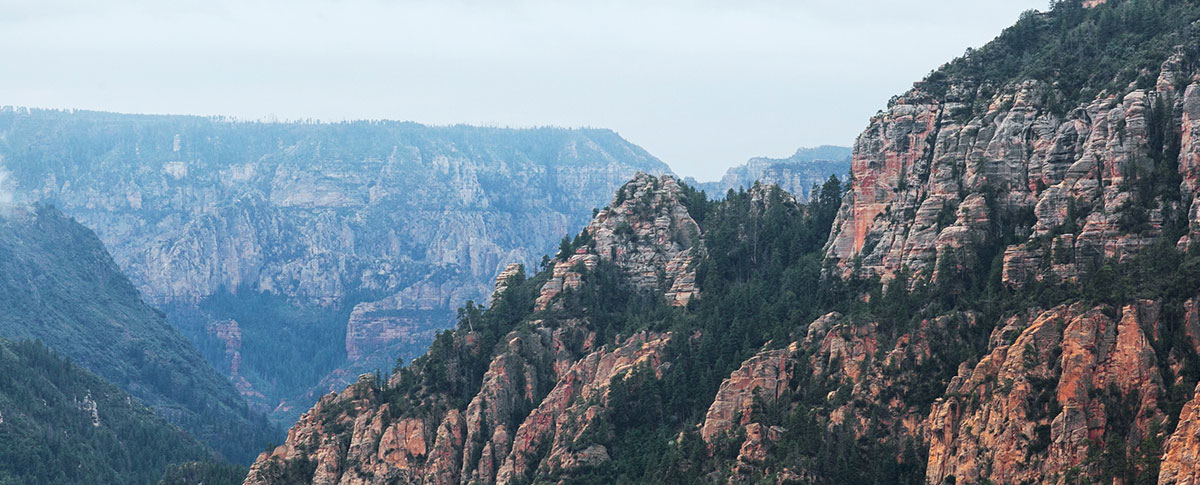
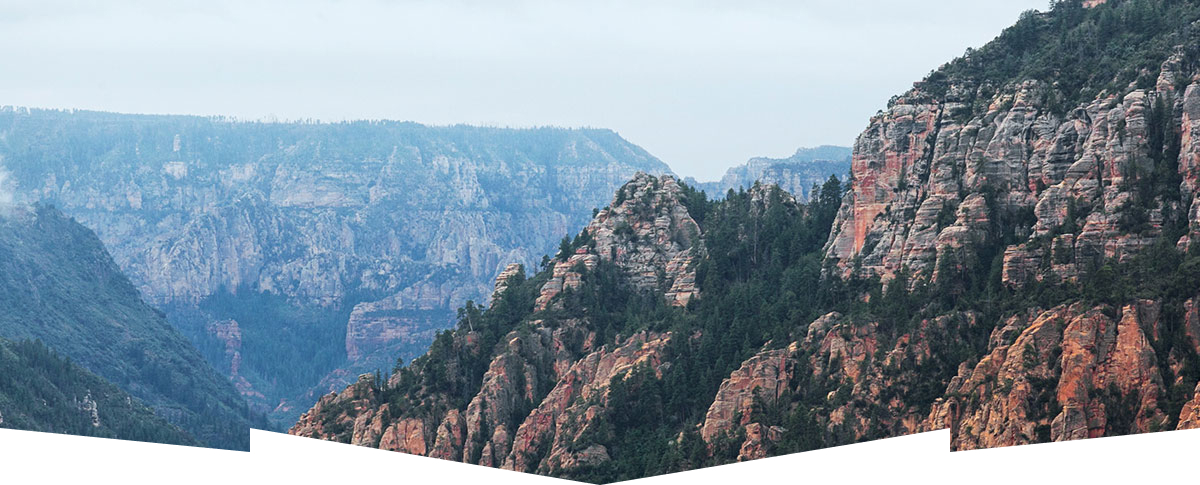
практика 3
В процессе

Changed region(s): [[0.0, 0.866, 1.0, 1.0]]

diff --git a/index.html b/index.html
@@ -3,6 +3,7 @@
   <head>
     <meta charset="utf-8">
     <meta name="viewport" content="width=device-width, initial-scale=1.0">
+      <link href="styles/styles.css" rel="stylesheet">
     <title>HTML Academy: Седона</title>
   </head>
   <body>
@@ -43,67 +44,67 @@
     <main class="main-index">
       <section class="hero">
         <h1 class="visually-hidden">Седона</h1>
-        <img class="logo-city" src="images/logo/welcome.svg" alt="welcome" width="187" height="44">
-        <img class="logo-city" src="images/logo/to-the-gorgeous.svg" alt="to-the-gorgeous" width="256" height="28">
-        <img class="logo-city" src="images/logo/sedona-big-logo.svg" alt="большой логотип города Седона" width="456" height="212">
+        <img class="logo-city" src="images/logo/welcome.svg" alt="welcome" width="458" height="352">
+
+
       </section>
       <section class="about">
-        <h2>Седона — небольшой городок в Аризоне, заслуживающий большего!</h2>
+        <h2 class="header-2">Седона — небольшой городок в Аризоне, заслуживающий большего!</h2>
         <p>Рассмотрим причины, по которым Седона круче, чем Гранд-Каньон!</p>
       </section>
       <section class="advantages">
-        <h2 class="visually-hidden">Преимущества</h2>
+        <h2 class="visually-hidden header-2">Преимущества</h2>
         <ul>
           <li>
-            <h3>Настоящий городок</h3>
+            <h3 class="header-3">Настоящий городок</h3>
             <p>Седона — не аттракцион для туристов, там течёт своя жизнь</p>
             <img class="foto" src="images/content/photo-1.jpg" alt="жизнь не атракцион" width="800" height="385">
           </li>
           <li>
-            <h3>Небольшая площадь</h3>
+            <h3 class="header-3">Небольшая площадь</h3>
             <p>Все достопримечательности находятся очень близко</p>
           </li>
           <li>
-            <h3>Красивая дорога</h3>
+            <h3 class="header-3">Красивая дорога</h3>
             <p>Ехать в Седону из Лас-Вегаса совсем не скучно!</p>
           </li>
           <li>
-            <h3>Мало туристов</h3>
+            <h3 class="header-3">Мало туристов</h3>
             <p>Большинство едет в Гранд Каньон и толпится там</p>
           </li>
         </ul>
         <img class="foto" src="images/content/photo-2.jpg" alt="мост дьявола" width="800" height="385">
-        <h3>Там есть мост дьявола</h3>
+        <h3 class="header-3">Там есть мост дьявола</h3>
         <p>Да, по нему можно пройти! Если вы осмелитесь, разумеется</p>
       </section>
       <section class="invitation">
-        <h2>Приезжайте в Седону отдохнуть в комфорте и уюте!</h2>
+        <h2 class="header-2">Приезжайте в Седону отдохнуть в комфорте и уюте!</h2>
         <p>Опытный персонал и качественное обслуживание!</p>
       </section>
       <section class="service">
-        <h2 class="visually-hidden">Сервис</h2>
+        <h2 class="visually-hidden header-2">Сервис</h2>
         <ul>
-          <li>
-            <h3>Жильё</h3>
+          <li class="service-1">
+            <h3 class="header-3">Жильё</h3>
             <p>Рекомендуем пожить в настоящем мотеле, всё как в кино!</p>
             <img class="logo-line" src="images/icons/home.svg" alt="линейный маленький дом" width="74" height="70">
           </li>
-          <li>
-            <h3>Еда</h3>
+          <li class="service-2">
+            <h3 class="header-3">Еда</h3>
             <p>
               Всегда заказывайте топовый фирменный бургер, вы не разочаруетесь!!
             </p>
             <img class="logo-line" src="images/icons/food.svg" alt="линейный маленький бургер" width="74" height="70">
           </li>
-          <li>
-            <h3>Сувениры</h3>
+          <li class="service-3">
+            <h3 class="header-3">Сувениры</h3>
             <p>Не только китайского, но и настоящего местного производства!</p>
             <img class="logo-line" src="images/icons/present.svg" alt="линейный маленький подарок" width="74" height="70">
           </li>
         </ul>
       </section>
       <section class="hotel-search">
-        <h2>Заинтересовались?</h2>
+        <h2 class="header-2">Заинтересовались?</h2>
         <p>
           Укажите предполагаемые даты поездки, и мы покажем вам лучшие
           предложения гостиниц в Седоне
@@ -112,10 +113,8 @@
             ПОИСК ГОСТИНИЦЫ В седоне
           </button>
       </section>
-    </main>
-    <footer class="footer-index">
-      <section class="footer-subscription">
-        <h2>Подпишитесь на рассылку</h2>
+            <section class="subscription">
+        <h2 class="header-2 subscription-header">Подпишитесь на рассылку</h2>
         <p>
           Только полезная информация и никакого спама, честное бойскаутское!
         </p>
@@ -132,11 +131,13 @@
             placeholder="Ваш e-mail"
             required
           >
-          <button class="button" type="submit">Подписаться</button>
+          <button class="button button-submit" type="submit">Подписаться</button>
         </form>
       </section>
+    </main>
+    <footer class="footer-index">
       <section class="footer-social">
-        <h2 class="visually-hidden">Мы в соцсетях</h2>
+        <h2 class="visually-hidden header-2">Мы в соцсетях</h2>
         <ul class="footer-social-list">
           <li class="footer-social-item">
             <a class="footer-button" href="https://vk.com/htmlacademy" target="_blank" rel="noreferrer noopener">
@@ -156,11 +157,11 @@
         </ul>
       </section>
       <section class="footer-contacts">
-        <h2 class="visually-hidden">Контакты</h2>
+        <h2 class="visually-hidden header-2">Контакты</h2>
         <a class="footer-phone" href="tel:+78128121212">+7 (812) 812-12-12</a>
       </section>
       <section class="footer-logo-html">
-        <h2 class="visually-hidden">Логотип HTML academy</h2>
+        <h2 class="visually-hidden header-2">Логотип HTML academy</h2>
         <a href="https://htmlacademy.ru/" target="_blank" rel="noreferrer noopener">
             <img class="footer-logo-img-html" src="images/logo/html-academy.svg" alt="логотип HTML academy" width="114" height="32">
         </a>

diff --git a/styles/styles.css b/styles/styles.css
@@ -1,0 +1,96 @@
+@font-face {
+  font-family: "PT Sans";
+  font-style: normal;
+  font-weight: 400;
+  src: url("../fonts/ptsans-400.woff2") format("woff2");
+  font-display: swap;
+}
+
+@font-face {
+  font-family: "PT Sans";
+  font-style: normal;
+  font-weight: 700;
+  src: url("../fonts/ptsans-700.woff2") format("woff2");
+  font-display: swap;
+}
+
+body {
+  font-family: "PT Sans", sans-serif;
+  font-weight: 400;
+  font-size: 22px;
+  line-height: 26px;
+}
+
+.button {
+  font-family: "PT Sans", sans-serif;
+  text-transform: uppercase;
+  font-weight: 700;
+  font-size: 16px;
+  line-height: 20px;
+  color:#ffffff;
+  background-color: #756157;
+  border: none;
+}
+
+.button-submit.button {
+  background-color: #82B3D3;
+}
+
+
+.header-2 {
+  font-family: "PT Sans", sans-serif;
+  font-weight: 700;
+  font-size: 30px;
+  line-height: 36px;
+  color: #333333;
+  text-transform: uppercase;
+}
+
+.subscription-header.header-2 {
+  color: #ffffff;
+}
+
+.header-3 {
+  font-family: "PT Sans", sans-serif;
+  font-weight: 700;
+  font-size: 24px;
+  line-height: 28px;
+  color: #333333;
+  text-transform: uppercase;
+}
+
+.main-index {
+  text-align: center;
+}
+
+.hero {
+  background-image: url("../images/backgrounds/index-background.jpg");
+  background-size: 100% auto;
+  background-repeat: no-repeat;
+  text-align: center;
+}
+
+.subscription {
+  background-image: url("../images/backgrounds/background-1.jpg");
+  background-color: #333333;
+  background-size: 100% auto;
+  background-repeat: no-repeat;
+}
+
+.service {
+  background-color: rgba(131, 179, 211, 0.12);
+  background-size: 100% auto;
+  background-repeat: no-repeat;
+}
+
+.service-2 {
+  background-color: #FFFFFF;
+  background-size: 100% auto;
+  background-repeat: no-repeat;
+}
+
+.about {
+  background-color: #FFFFFF;
+  background-size: 100% auto;
+  background-repeat: no-repeat;
+}
